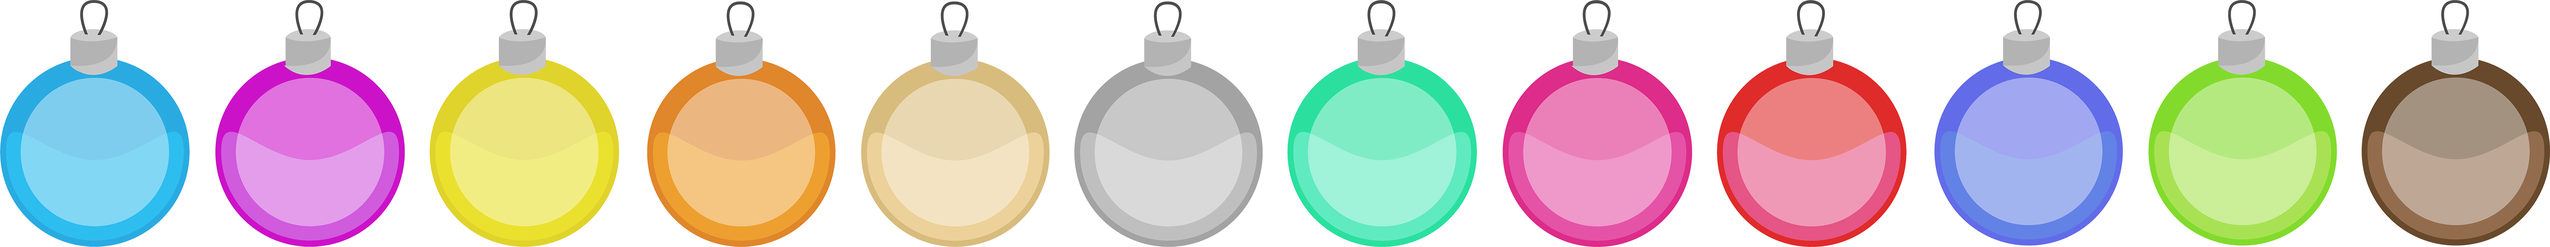
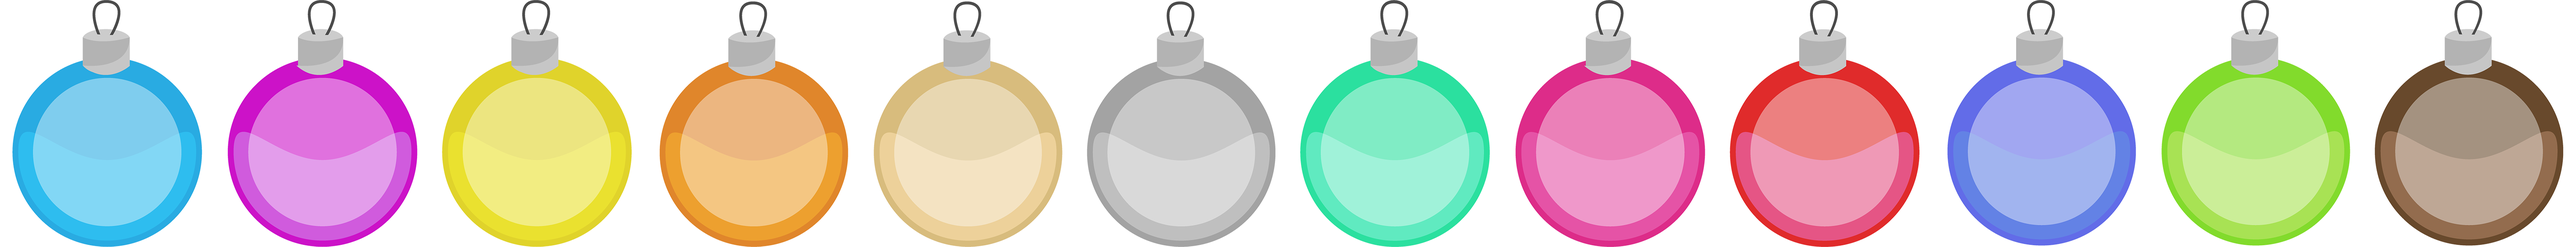
fixed bulbs

diff --git a/public/js/custom.js b/public/js/custom.js
@@ -30,7 +30,7 @@ $(document).ready(function () {
             console.log(output);
             $.magnificPopup.open({
                 items: {
-                    src: '<div id="bulb-popup" class="animated bounceIn fast" style="background-position: ' + ($this.css('background-position').split('px ')[0] * 5) + 'px' + '">' + output + '</div>',
+                    src: '<div id="bulb-popup" class="animated bounceIn fast" style="background-position: ' + ($this.css('background-position').split('px ')[0] * 5 + 5) + 'px' + '">' + output + '</div>',
                     type: 'inline',
                 },
                 mainClass: 'mfp-with-zoom',

diff --git a/public/css/custom.css b/public/css/custom.css
@@ -264,6 +264,8 @@ a#see-more:hover {
 }
 
 #bulbs {
+    opacity:0.4;
+    filter:alpha(opacity=0);
     position: absolute;
     top: 0;
     left: 0;
